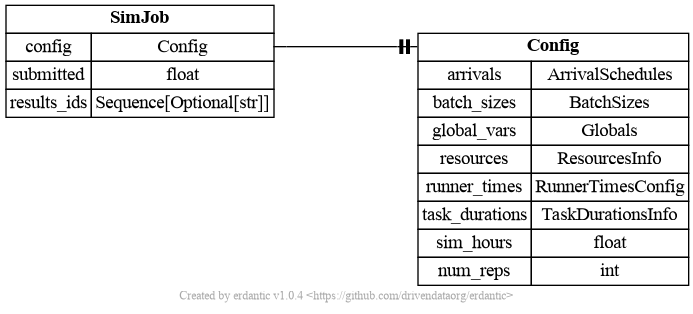
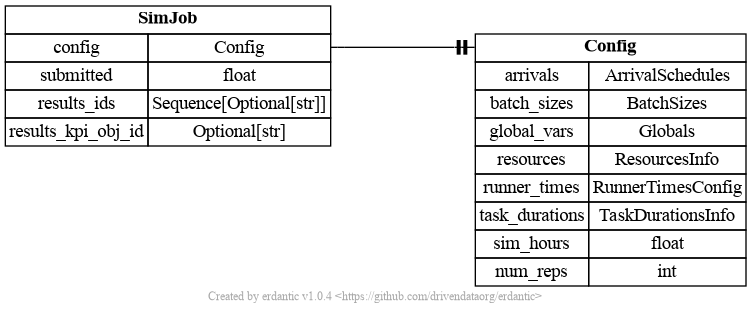
Misc minor tasks (#42)
- Remove outdated TODO
- Update schema diagram

Changed region(s): [[0.0, 0.0, 1.0, 0.9745]]

diff --git a/dighosp-des/dighosp_des/api.py b/dighosp-des/dighosp_des/api.py
@@ -36,11 +36,6 @@ ObjectIdStr = Annotated[str, AfterValidator(assert_object_id)]
 class SimJob(pyd.BaseModel):
     """A simulation job for the histopathology department model."""
 
-    # TODO: store precomputed KPIs
-    #
-    # For Redis Queue (RQ), we can use the `depends_on` argument of Job.enqueue()
-    # to compute the KPIs only when all simulation replications are completed sucessfully.
-
     config: Config = pyd.Field(
         title='Config file ID',
         description='Simulation configuration.'
